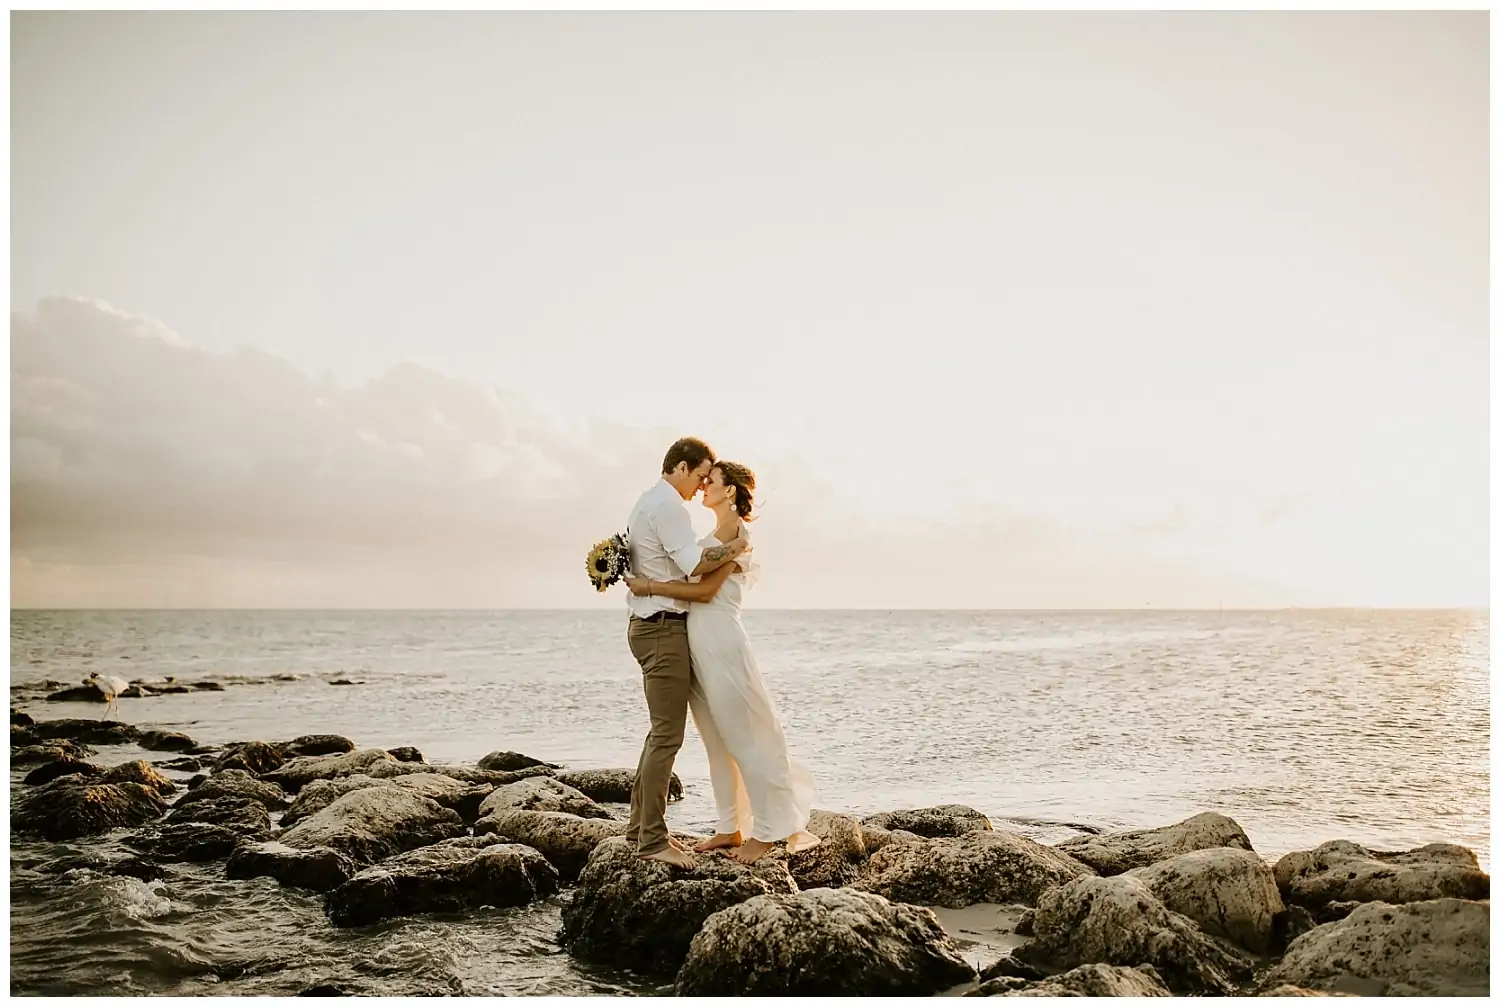
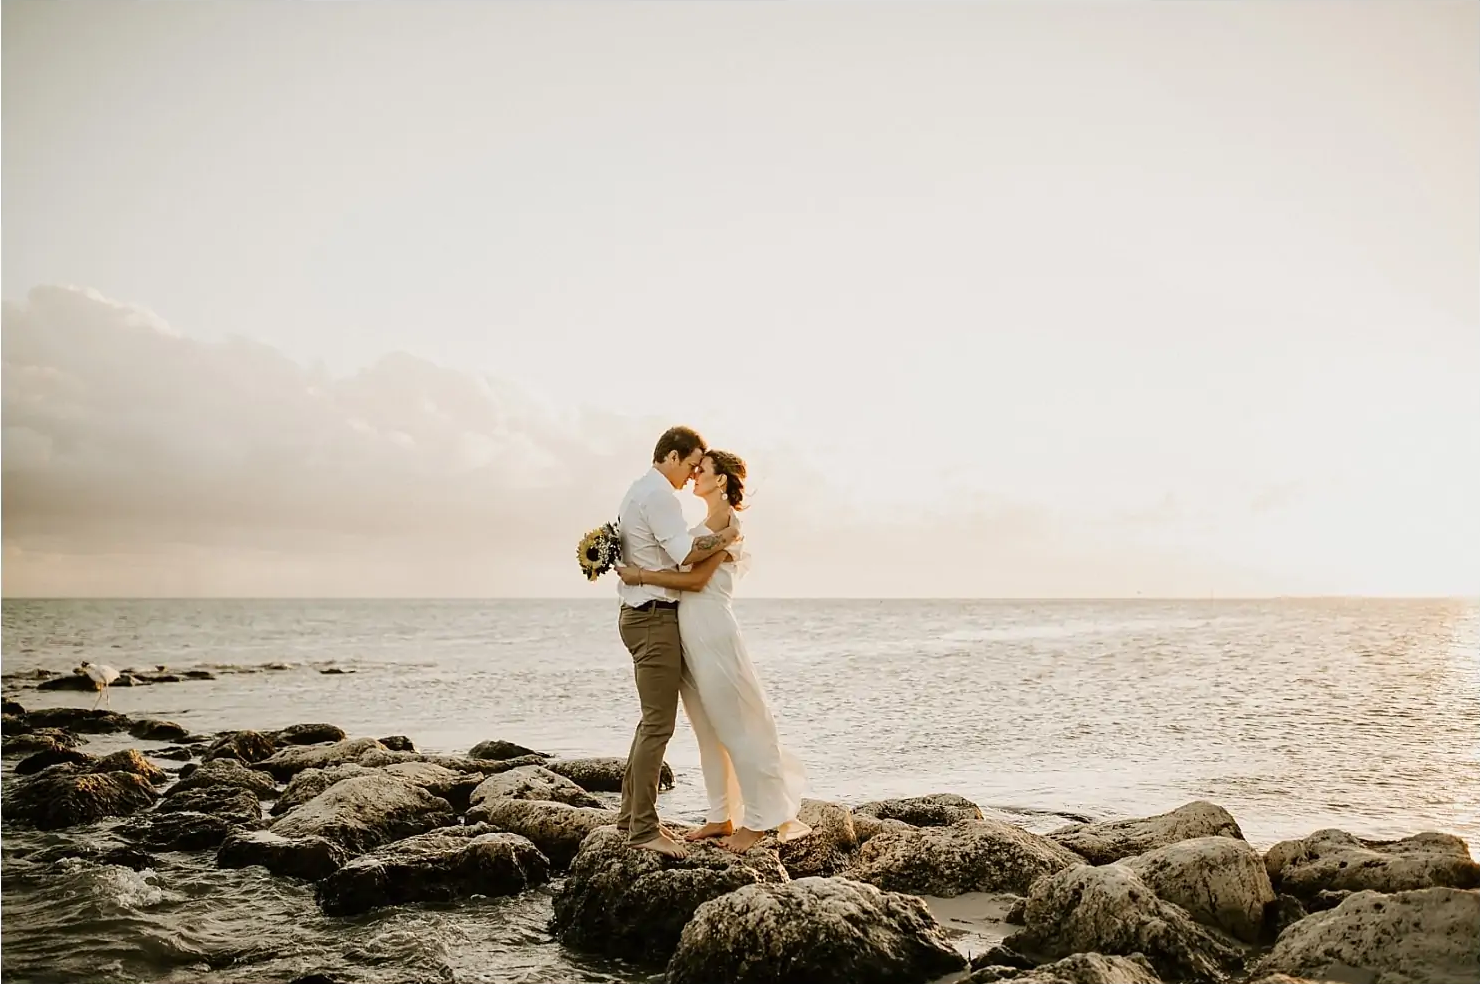
simple gallery

Changed region(s): [[0.0, 0.0, 1.0, 1.0]]

diff --git a/css/main.css b/css/main.css
@@ -189,7 +189,6 @@ nav > a:hover{
     background-repeat: repeat-y;
 }
 
-
 .article .info{
     position: absolute;
     top: 0;
@@ -205,6 +204,7 @@ nav > a:hover{
     background-color: white;
     padding-top: 6px;
 }
+
 
 /* ##### white horizontal spanner ##### */
 
@@ -310,3 +310,25 @@ nav > a:hover{
     font-style: italic;
 }
 
+
+/* ##### three column gallery ##### */
+
+.three-column-gallery{
+    display: inline-block;
+    width: 100%;
+    margin: 80px 0;
+}
+
+.three-column-gallery img{
+    width: 300px;
+    height: 450px;
+    object-fit: cover;
+}
+
+.three-column-gallery img + img{
+    margin-left:20px
+}
+
+.three-column-gallery img:nth-child(1){
+    margin-left: calc(50% - 470px);
+}

diff --git a/index.html b/index.html
@@ -74,6 +74,12 @@
             <div class="spanner-right"></div>
         </div>
 
+        <div class="three-column-gallery">
+            <img src="./img/beach1.png">
+            <img src="./img/beach2.png">
+            <img src="./img/beach3.png">
+        </div>
+
         <div class="dark-horizontal-spanner">
             <div class="spanner-left"></div>
             
